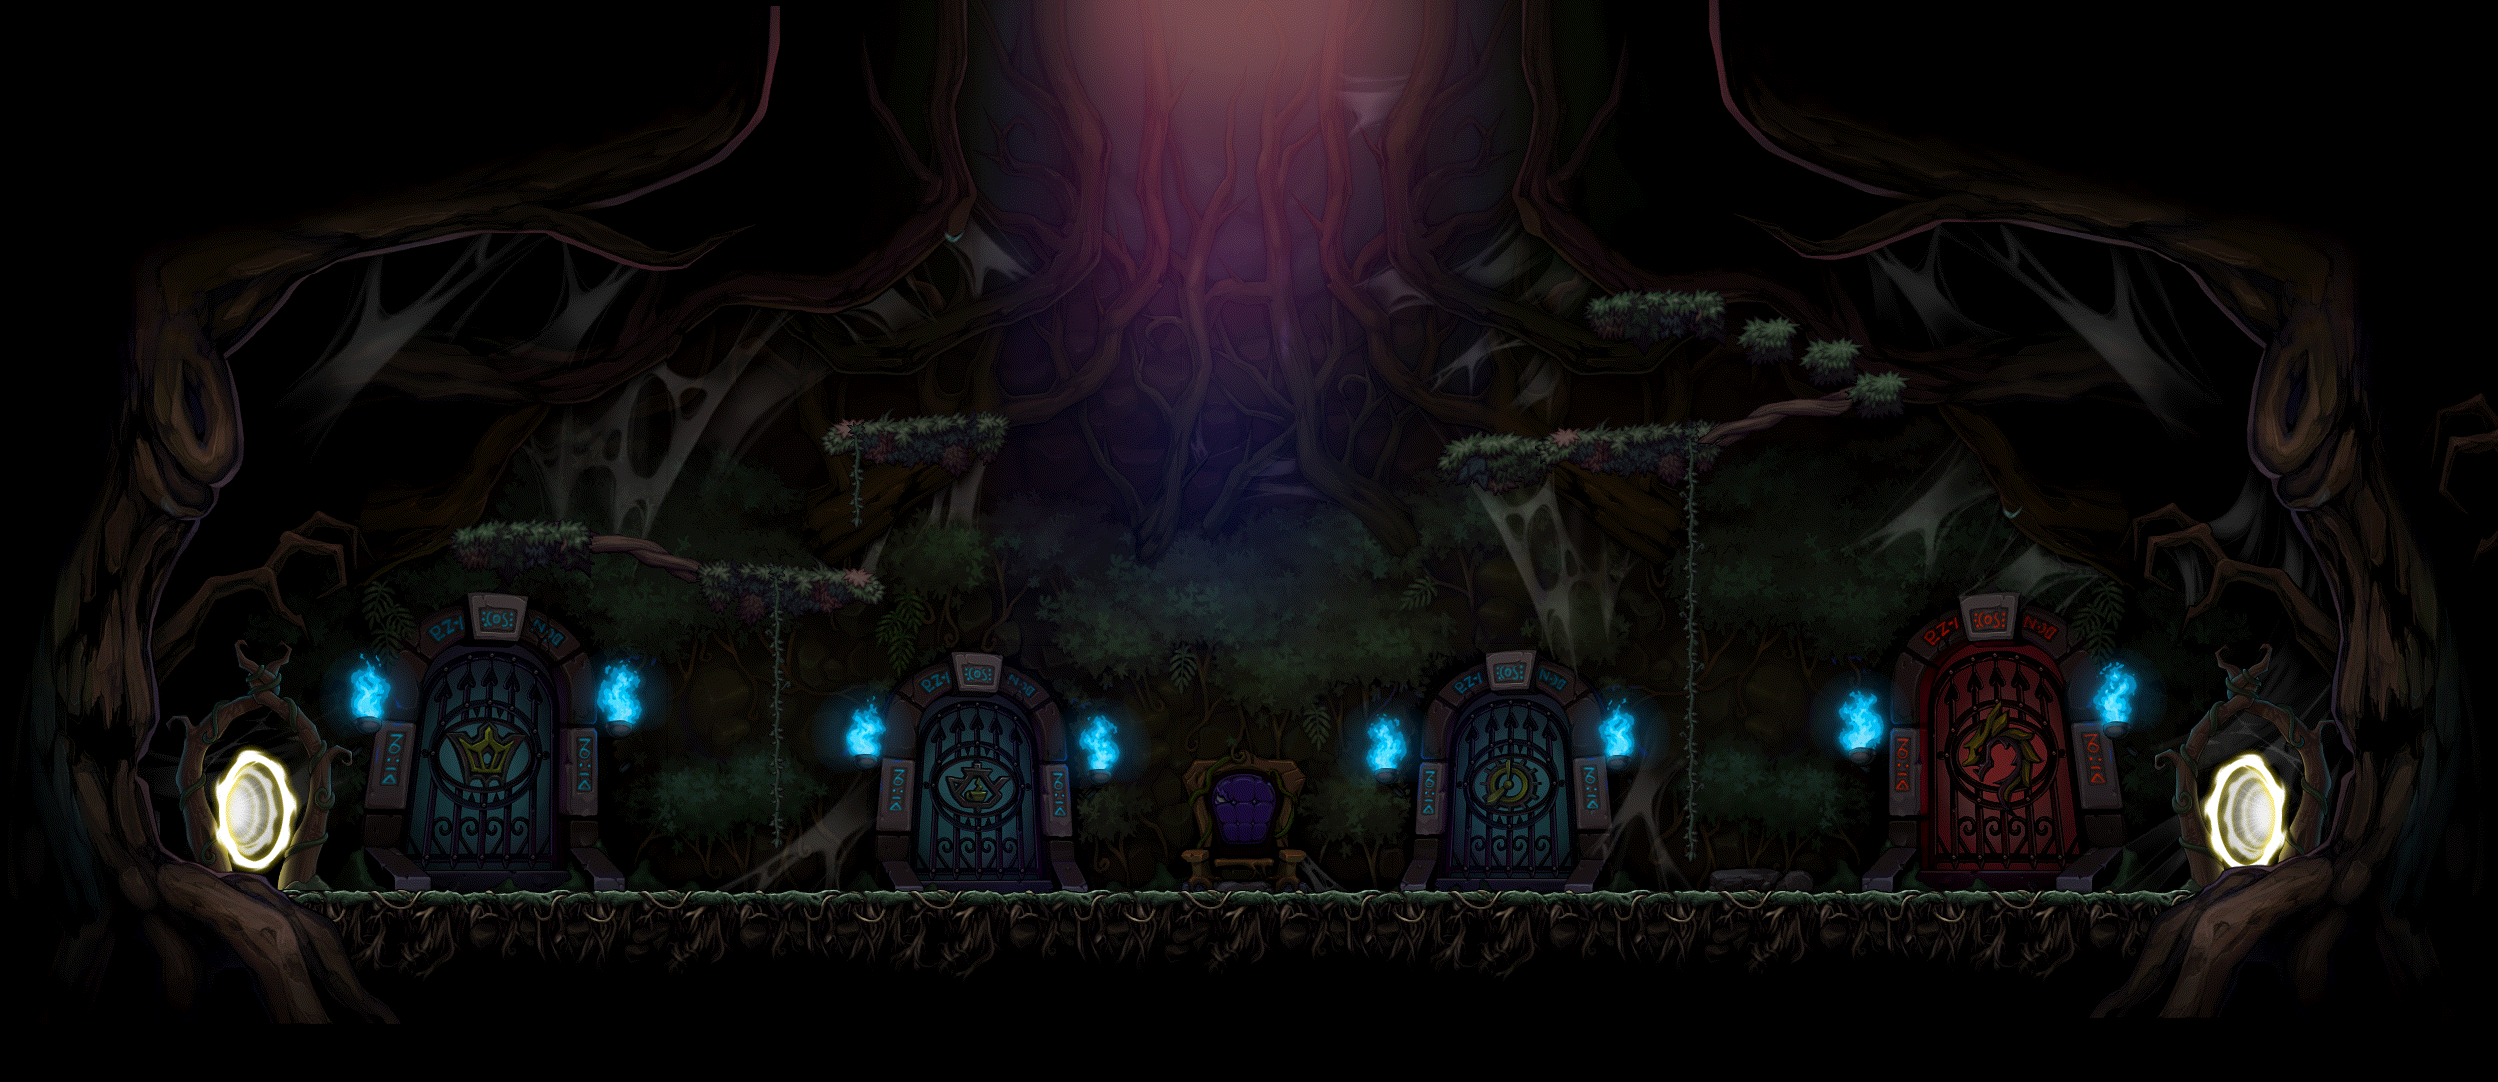
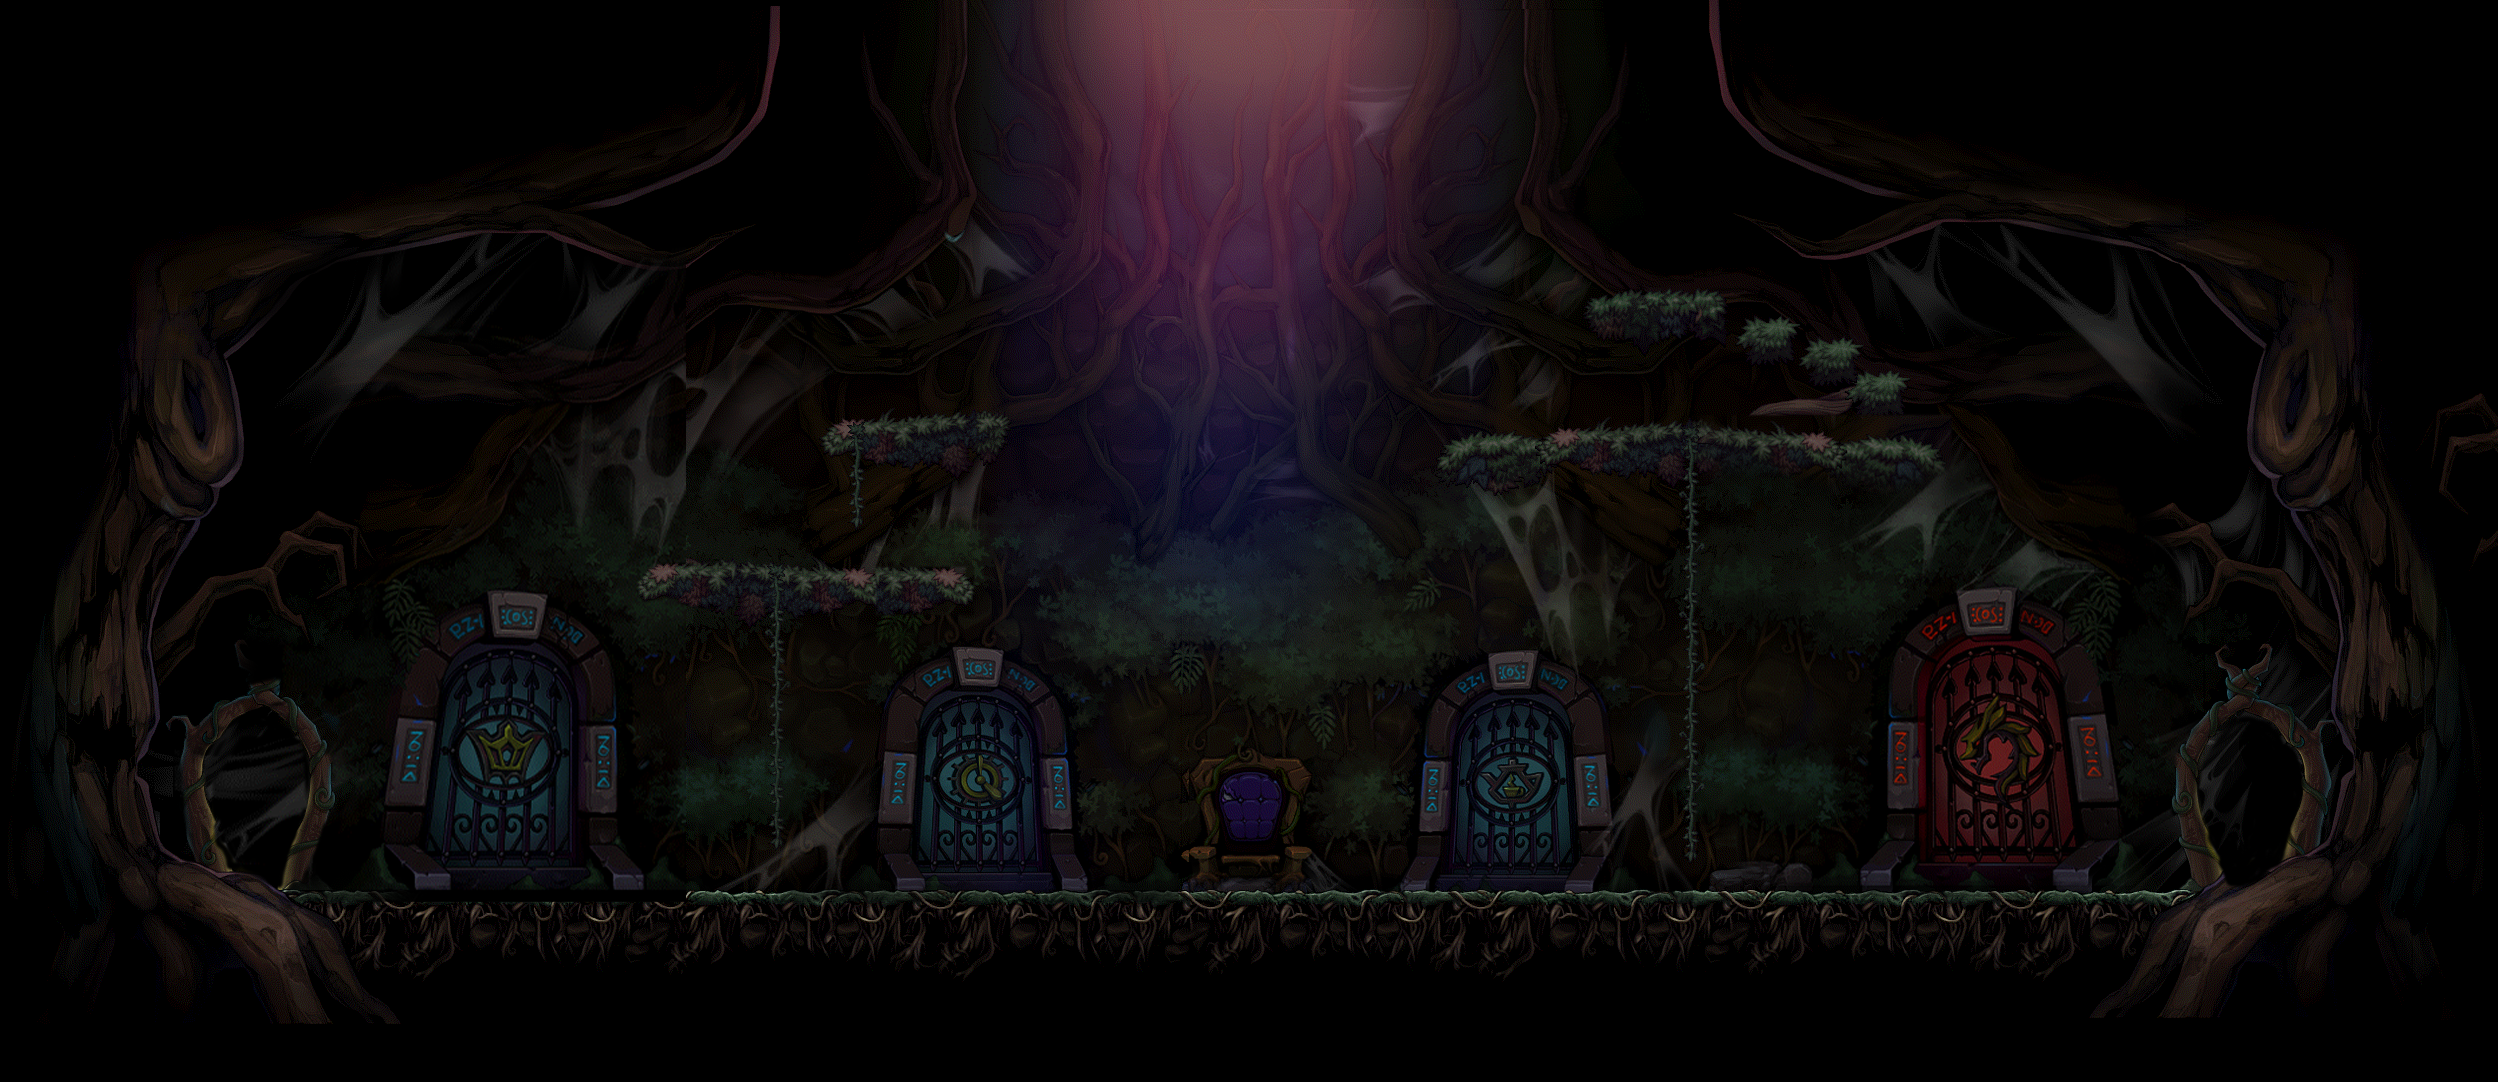
Portal

diff --git a/JNSEngine/JNSEngine/jnsYellowPortal.cpp b/JNSEngine/JNSEngine/jnsYellowPortal.cpp
@@ -1,0 +1,57 @@
+#include "jnsYellowPortal.h"
+#include "CommonSceneInclude.h"
+
+namespace jns
+{
+	YellowPortal::YellowPortal(std::wstring name, Vector3 setpos, int dir)
+	{
+		mPortalName = name;
+		setPlayerPos = setpos;
+		mDir = dir;
+	}
+	YellowPortal::~YellowPortal()
+	{
+	}
+	void YellowPortal::Initialize()
+	{
+		SetMesh(L"RectMesh");
+		SetMaterial(L"SpriteAnimaionAlphaMaterial");
+		at = AddComponent<Animator>();
+		at->CreateAnimations(L"..\\Resources\\Map\\YellowPortal", 200, 0.1f);
+		//at->CompleteEvent(L"CharactorCharWalk") = std::bind(&PlayerScript::Complete, this);
+
+		at->PlayAnimation(L"MapYellowPortal", true);
+		tr->SetScale(Vector3(180.0f, 180.0f, 100.0f));
+		Collider2D* cd = AddComponent<Collider2D>();
+		cd->SetSize(Vector2(0.4f, 0.6f));
+
+		AddComponent<PortalScript>();
+		PortalBase::Initialize();
+	}
+	void YellowPortal::Update()
+	{
+		if (isSetDir == false)
+		{
+			if (mDir == 1)
+			{
+				at->GetActiveAnimation()->SetAniDirection(true);
+			}
+			else
+			{
+				at->GetActiveAnimation()->SetAniDirection(false);
+			}
+			isSetDir = true;
+		}
+
+	
+		GameObject::Update();
+	}
+	void YellowPortal::LateUpdate()
+	{
+		GameObject::LateUpdate();
+	}
+	void YellowPortal::Render()
+	{
+		GameObject::Render();
+	}
+}

diff --git a/JNSEngine/JNSEngine/jnsFireEffect.cpp b/JNSEngine/JNSEngine/jnsFireEffect.cpp
@@ -1,0 +1,43 @@
+#include "jnsFireEffect.h"
+#include "CommonSceneInclude.h"`
+
+namespace jns
+{
+	FireEffect::FireEffect()
+	{
+	}
+	FireEffect::~FireEffect()
+	{
+		//std::shared_ptr<Texture> atlas
+		//	= Resources::Load<Texture>(L"LinkSprite", L"..\\Resources\\Texture\\linkSprites.png");
+
+		//Animator* at = player->AddComponent<Animator>();
+		//at->Create(L"Idle", atlas, Vector2(0.0f, 0.0f), Vector2(120.0f, 130.0f), 3);
+	}
+	void FireEffect::Initialize()
+	{
+		SetName(L"AttackReflecton");
+		mr->SetMesh(Resources::Find<Mesh>(L"RectMesh"));
+		mr->SetMaterial(Resources::Find<Material>(L"SpriteAnimaionMaterial"));
+		tr->SetScale(Vector3(100.0f, 100.0f, 1.0f));
+
+		std::shared_ptr<Texture> atlas
+			= Resources::Load<Texture>(L"FireAtlas", L"..\\Resources\\Boss\\NormalBloodyQueen\\NBQFire\\fire.png");
+		Animator* at = AddComponent<Animator>();
+		at->Create(L"Fire", atlas, Vector2::Zero, Vector2(120.0f, 120.0f),19, 100.0f);
+		at->PlayAnimation(L"Fire", true);
+		GameObject::Initialize();
+	}
+	void FireEffect::Update()
+	{
+		EffectBase::Update();
+	}
+	void FireEffect::LateUpdate()
+	{
+		EffectBase::LateUpdate();
+	}
+	void FireEffect::Render()
+	{
+		EffectBase::Render();
+	}
+}

diff --git a/JNSEngine/JNSEngine/ObjectTemplate.h b/JNSEngine/JNSEngine/ObjectTemplate.h
@@ -68,6 +68,19 @@ namespace jns::object
 
 		return gameobj;
 	}
+
+	template<typename T>
+	T* InstantiateDirPortal(std::wstring portalName, Vector3 setPos, Vector3 mPos, int dir = 0, jns::enums::eLayerType type = eLayerType::Portal)
+	{
+		T* gameobj = new T(portalName, setPos, dir);
+		Scene* scene = SceneManager::GetActiveScene();
+		scene->AddGameObject(type, gameobj);
+		gameobj->GetComponent<Transform>()->SetPosition(mPos);
+		gameobj->Initialize();
+
+		return gameobj;
+	}
+
 	template<typename T>
 	T* InstantiateGroundCollider(std::wstring groundName, Vector3 mPos, Vector3 mScale = (Vector3::One),jns::enums::eLayerType type = eLayerType::Ground)
 	{

diff --git a/JNSEngine/JNSEngine/jnsYellowPortal.h b/JNSEngine/JNSEngine/jnsYellowPortal.h
@@ -3,11 +3,11 @@
 
 namespace jns
 {
-	class Portal : public PortalBase
+	class YellowPortal : public PortalBase
 	{
 	public:
-		Portal(std::wstring name, Vector3 setpos);
-		~Portal();
+		YellowPortal(std::wstring name, Vector3 setpos, int dir);
+		~YellowPortal();
 
 		virtual void Initialize();
 		virtual void Update();
@@ -15,6 +15,9 @@ namespace jns
 		virtual void Render();
 
 	private:
+		int mDir;
+		class Animator* at;
+		bool isSetDir;
 	};
 
 }

diff --git a/JNSEngine/JNSEngine/jnsPortalBase.h b/JNSEngine/JNSEngine/jnsPortalBase.h
@@ -77,13 +77,17 @@ namespace jns
 			tr->SetScale(Vector3(mTextureSize.x * scale.x, mTextureSize.y * scale.y, 1.0f));
 		}
 
+		std::wstring GetPortalName() { return mPortalName; }
+		Vector3 GetsetPlayerPos() { return setPlayerPos; }
+
 	protected:
 		eLayerType mType;
 		MeshRenderer* mr;
 		Transform* tr;
 		Vector2 mTextureSize;
 		Vector2 mSize;
-
+		std::wstring mPortalName;
+		Vector3 setPlayerPos;
 		
 	};
 }

diff --git a/JNSEngine/JNSEngine/jnsFireEffect.h b/JNSEngine/JNSEngine/jnsFireEffect.h
@@ -1,0 +1,22 @@
+#pragma once
+#include "jnsEffectBase.h"
+
+namespace jns
+{
+	class FireEffect : public EffectBase
+	{
+	public:
+		FireEffect();
+		virtual ~FireEffect();
+
+		virtual void Initialize() override;
+		virtual void Update() override;
+		virtual void LateUpdate() override;
+		virtual void Render() override;
+
+
+
+	private:
+	};
+
+}

diff --git a/JNSEngine/JNSEngine/jnsPortal.cpp b/JNSEngine/JNSEngine/jnsPortal.cpp
@@ -30,14 +30,14 @@ namespace jns
 	}
 	void Portal::Update()
 	{
-		PortalBase::Update();
+		GameObject::Update();
 	}
 	void Portal::LateUpdate()
 	{
-		PortalBase::LateUpdate();
+		GameObject::LateUpdate();
 	}
 	void Portal::Render()
 	{
-		PortalBase::Render();
+		GameObject::Render();
 	}
 }

diff --git a/JNSEngine/JNSEngine/jnsPortalScript.cpp b/JNSEngine/JNSEngine/jnsPortalScript.cpp
@@ -44,7 +44,7 @@ namespace jns
 	{
 		if (other->GetOwner()->GetName() == L"Player")
 		{
-			mPortal = dynamic_cast<Portal*>(this->GetOwner());
+			mPortal = dynamic_cast<PortalBase*>(this->GetOwner());
 		}
 	}
 	void PortalScript::OnCollisionStay(Collider2D* other)

diff --git a/JNSEngine/JNSEngine/jnsPortalScript.h b/JNSEngine/JNSEngine/jnsPortalScript.h
@@ -23,7 +23,7 @@ namespace jns
 
 
 	private:
-		class Portal* mPortal;
+		class PortalBase* mPortal;
 		ePortalEnter mEnter;
 		bool isEnter;
 	};

diff --git a/JNSEngine/JNSEngine/CommonSceneInclude.h b/JNSEngine/JNSEngine/CommonSceneInclude.h
@@ -1,6 +1,6 @@
 #pragma once
 
-
+#include "jnsFireEffect.h"
 // Template
 #include "ObjectTemplate.h"
 #include "EffectTemplate.h"
